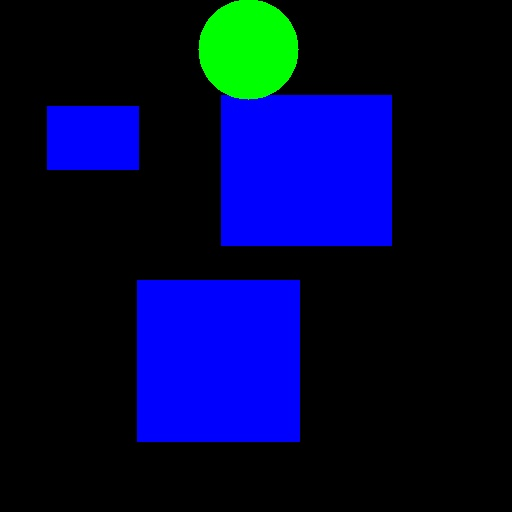
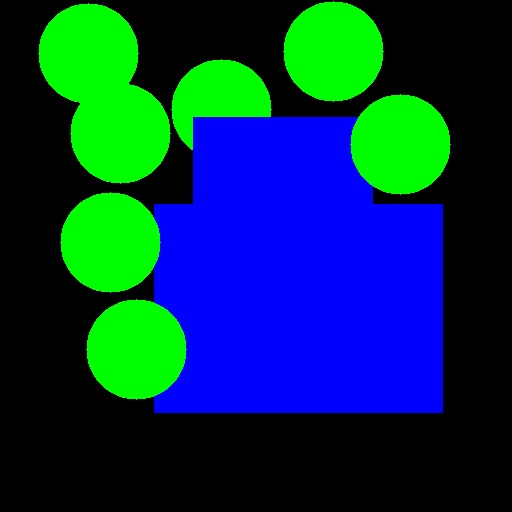
补充

diff --git a/opencv/检测荧光点.py b/opencv/检测荧光点.py
@@ -1,71 +1,75 @@
 import cv2
 import numpy as np
 
-
 def detect_fluorescent_points(image_path):
     # 读取图片
     image = cv2.imread(image_path)
 
     # 将图片转换为灰度图像
     gray = cv2.cvtColor(image, cv2.COLOR_BGR2GRAY)
-
-    # 使用高斯滤波平滑图像
-    blurred = cv2.GaussianBlur(gray, (5, 5), 0)
+    cv2.imwrite('0702.png', gray)
+    # # 使用高斯滤波平滑图像
+    # blurred = cv2.GaussianBlur(gray, (5, 5), 0)
 
     # 使用阈值分割图像，将荧光点区域提取出来
-    _, thresholded = cv2.threshold(blurred, 100, 255, cv2.THRESH_BINARY)
+    _, thresholded = cv2.threshold(gray,190,255,cv2.THRESH_BINARY)
 
     # 寻找荧光点的轮廓
     contours, _ = cv2.findContours(thresholded, cv2.RETR_EXTERNAL, cv2.CHAIN_APPROX_SIMPLE)
 
     # 绘制检测到的荧光点
-    cv2.drawContours(image, contours, -1, (0, 255, 0), 2)
+    cv2.drawContours(image, contours, -1, (0, 255, 0), -1)
 
     # 显示结果图像
     cv2.imshow("Fluorescent Points Detection", image)
+    cv2.imwrite('0502.png', image)
     cv2.waitKey(0)
     cv2.destroyAllWindows()
 
 
 # 调用函数进行荧光点检测
-image_path = "your_image.jpg"  # 替换为你的图片路径
+image_path = "0402.jpg"  # 替换为你的图片路径
 detect_fluorescent_points(image_path)
 
 # 第二种
-import cv2
-import numpy as np
-
-
-def fluorescent_detection(image):
-    # 将图像转换为HSV颜色空间
-    hsv = cv2.cvtColor(image, cv2.COLOR_BGR2HSV)
-
-    # 设置荧光的颜色范围
-    lower_green = np.array([40, 50, 50])
-    upper_green = np.array([80, 255, 255])
-
-    # 根据颜色范围创建掩膜
-    mask = cv2.inRange(hsv, lower_green, upper_green)
-
-    # 对图像和掩膜进行位运算
-    fluorescent_image = cv2.bitwise_and(image, image, mask=mask)
-
-    # 计算荧光像素的数量
-    fluorescent_pixels = cv2.countNonZero(mask)
-
-    return fluorescent_image, fluorescent_pixels
-
-
-# 读取图像
-image = cv2.imread("image.jpg")
-
-# 调用荧光检测函数
-fluorescent_image, fluorescent_pixels = fluorescent_detection(image)
-
-# 显示结果
-cv2.imshow("Original Image", image)
-cv2.imshow("Fluorescent Image", fluorescent_image)
-print("Fluorescent Pixels:", fluorescent_pixels)
-
-cv2.waitKey(0)
-cv2.destroyAllWindows()
+# import cv2
+# import numpy as np
+#
+#
+# def fluorescent_detection(image):
+#     # 将图像转换为HSV颜色空间
+#     hsv = cv2.cvtColor(image, cv2.COLOR_BGR2HSV)
+#
+#     # 设置荧光的颜色范围
+#     lower_green = np.array([40, 50, 50])
+#     upper_green = np.array([0, 150,0 ])
+#
+#     # 根据颜色范围创建掩膜
+#     mask = cv2.inRange(hsv, lower_green, upper_green)
+#
+#     # 对图像和掩膜进行位运算
+#     fluorescent_image = cv2.bitwise_and(image, image, mask=mask)
+#     cv2.namedWindow("Fluorescent Image", cv2.WINDOW_NORMAL)
+#     cv2.imshow("Fluorescent Image", fluorescent_image)
+#     # # 计算荧光像素的数量
+#     # fluorescent_pixels = cv2.countNonZero(mask)
+#     #
+#     # return fluorescent_image, fluorescent_pixels
+#
+#
+# # 读取图像
+# image = cv2.imread("04.jpg")
+#
+# # 调用荧光检测函数
+# # fluorescent_image, fluorescent_pixels = fluorescent_detection(image)
+# fluorescent_detection(image)
+# # # 显示结果
+# # cv2.namedWindow("Original Image", cv2.WINDOW_NORMAL)
+# # cv2.namedWindow("Fluorescent Image", cv2.WINDOW_NORMAL)
+# #
+# # cv2.imshow("Original Image", image)
+# # cv2.imshow("Fluorescent Image", fluorescent_image)
+# # print("Fluorescent Pixels:", fluorescent_pixels)
+#
+# cv2.waitKey(0)
+# cv2.destroyAllWindows()

diff --git a/opencv/荧光检测2.py b/opencv/荧光检测2.py
@@ -1,0 +1,44 @@
+import cv2
+import numpy as np
+
+
+# 滑动条的回调函数，获取滑动条位置处的值
+def empty(a):
+    h_min = cv2.getTrackbarPos("Hue Min", "TrackBars")
+    h_max = cv2.getTrackbarPos("Hue Max", "TrackBars")
+    s_min = cv2.getTrackbarPos("Sat Min", "TrackBars")
+    s_max = cv2.getTrackbarPos("Sat Max", "TrackBars")
+    v_min = cv2.getTrackbarPos("Val Min", "TrackBars")
+    v_max = cv2.getTrackbarPos("Val Max", "TrackBars")
+    print(h_min, h_max, s_min, s_max, v_min, v_max)
+    return h_min, h_max, s_min, s_max, v_min, v_max
+
+
+
+# 创建一个窗口，放置6个滑动条
+cv2.namedWindow("TrackBars")
+cv2.resizeWindow("TrackBars", 640, 240)
+cv2.createTrackbar("Hue Min", "TrackBars", 0, 179, empty)
+cv2.createTrackbar("Hue Max", "TrackBars", 19, 179, empty)
+cv2.createTrackbar("Sat Min", "TrackBars", 110, 255, empty)
+cv2.createTrackbar("Sat Max", "TrackBars", 240, 255, empty)
+cv2.createTrackbar("Val Min", "TrackBars", 153, 255, empty)
+cv2.createTrackbar("Val Max", "TrackBars", 255, 255, empty)
+
+while True:
+    img = cv2.imread("04.jpg")
+    imgHSV = cv2.cvtColor(img, cv2.COLOR_BGR2HSV)
+    # 调用回调函数，获取滑动条的值
+    h_min, h_max, s_min, s_max, v_min, v_max = empty(0)
+    lower = np.array([h_min, s_min, v_min])
+    upper = np.array([h_max, s_max, v_max])
+    # 获得指定颜色范围内的掩码
+    mask = cv2.inRange(imgHSV, lower, upper)
+    # 对原图图像进行按位与的操作，掩码区域保留
+    imgResult = cv2.bitwise_and(img, img, mask=mask)
+
+    cv2.namedWindow('Result', 0)
+    cv2.imshow("Mask", mask)
+    cv2.imshow("Result", imgResult)
+
+    cv2.waitKey(1)

diff --git a/opencv/荧光点检测.py b/opencv/荧光点检测.py
@@ -1,0 +1,40 @@
+import cv2
+import numpy as np
+
+# 加载图像
+image = cv2.imread('04.jpg')
+# 将图像转换为HSV颜色空间
+hsv = cv2.cvtColor(image, cv2.COLOR_BGR2HSV)
+
+# 定义荧光的颜色范围
+lower_green = np.array([85, 80, 73])
+upper_green = np.array([107, 255, 255])
+
+# 根据颜色范围创建掩膜
+mask = cv2.inRange(hsv, lower_green, upper_green)
+
+# 执行形态学操作以去除噪声
+kernel1 = cv2.getStructuringElement(cv2.MORPH_RECT,(6,6))
+kernel2 = cv2.getStructuringElement(cv2.MORPH_RECT,(18,18))
+# open先腐蚀后膨胀，去除小白点
+# close先膨胀后腐蚀，去除小黑点
+mask = cv2.morphologyEx(mask, cv2.MORPH_CLOSE, kernel2)
+mask = cv2.morphologyEx(mask, cv2.MORPH_OPEN, kernel1)
+# mask = cv2.morphologyEx(mask, cv2.MORPH_CLOSE, kernel2)
+# dst = cv2.GaussianBlur(mask, (5, 5), 15)
+# mask = cv2.morphologyEx(mask, cv2.MORPH_OPEN, dst)
+# 在原始图像上绘制荧光位置
+result = cv2.bitwise_and(image, image, mask=mask)
+
+# # 寻找荧光点的轮廓
+# contours, _ = cv2.findContours(mask, cv2.RETR_EXTERNAL, cv2.CHAIN_APPROX_SIMPLE)
+# # 绘制检测到的荧光点
+# cv2.drawContours(image, contours, -1, (0, 255, 0), -1)
+# 显示结果图像
+cv2.namedWindow('Fluorescent Detection', 0)
+# cv2.imshow("Fluorescent Detection", image)
+cv2.imshow('Fluorescent Detection', result)
+
+# cv2.imwrite('06.png', result)
+cv2.waitKey(0)
+cv2.destroyAllWindows()

diff --git a/opencv/创建颜色变化的跟踪栏.py b/opencv/创建颜色变化的跟踪栏.py
@@ -1,0 +1,34 @@
+import numpy as np
+import cv2 as cv
+
+
+def nothing(x):
+    pass
+
+
+# 创建一个黑色图像，一个窗口
+img = np.zeros((300, 512, 3), np.uint8)
+cv.namedWindow('image')
+# 创建一个改变颜色的轨迹栏
+# 第一个参数是轨迹栏名字，第二个参数是被附上的窗口名字，第三个参数是默认值，第四个是最大值，第五个是回调函数
+cv.createTrackbar('R', 'image', 100, 255, nothing)
+cv.createTrackbar('G', 'image', 0, 255, nothing)
+cv.createTrackbar('B', 'image', 0, 255, nothing)
+# 创建一个用来启用和关闭功能的开关
+switch = '0 : OFF \n1 : ON'
+cv.createTrackbar(switch, 'image', 0, 1, nothing)
+while (1):
+    cv.imshow('image', img)
+    k = cv.waitKey(1) & 0xFF
+    if k == 27:
+        break
+    # get current positions of four trackbars
+    r = cv.getTrackbarPos('R', 'image')
+    g = cv.getTrackbarPos('G', 'image')
+    b = cv.getTrackbarPos('B', 'image')
+    s = cv.getTrackbarPos(switch, 'image')
+    if s == 0:
+        img[:] = 0
+    else:
+        img[:] = [b, g, r]
+cv.destroyAllWindows()

diff --git a/opencv/图片读取.py b/opencv/图片读取.py
@@ -2,8 +2,8 @@ import cv2 as cv
 import numpy as np
 # 读取图像，第一种是正常读取，第二种是读取灰度图像
 # 通过imread函数读取图片信息,第一个参数为图片地址，第二个参数为图像格式：1为彩色是默认值，0为灰色，-1包括alpha通道
-img = cv.imread(r"D:\img\02.jpg")
-gray = cv.imread(r"D:\img\02.jpg", 0)
+img = cv.imread(r"02.png")
+gray = cv.imread(r"02.png", 0)
 # cv.namedWindow('image', cv.WINDOW_NORMAL)
 # 显示图像，第一个参数为文件名，第二个参数为要显示的数据
 cv.imshow("colorful", img)
@@ -13,6 +13,6 @@ k = cv.waitKey(0)
 if k == 27:  # ESC 退出
     cv.destroyAllWindows()
 elif k == ord('s'):  # 's' 保存退出
-    cv.imwrite('02.png', img)
+    cv.imwrite('03.png', gray)
     cv.destroyAllWindows()
 # 关闭所有显示窗口
